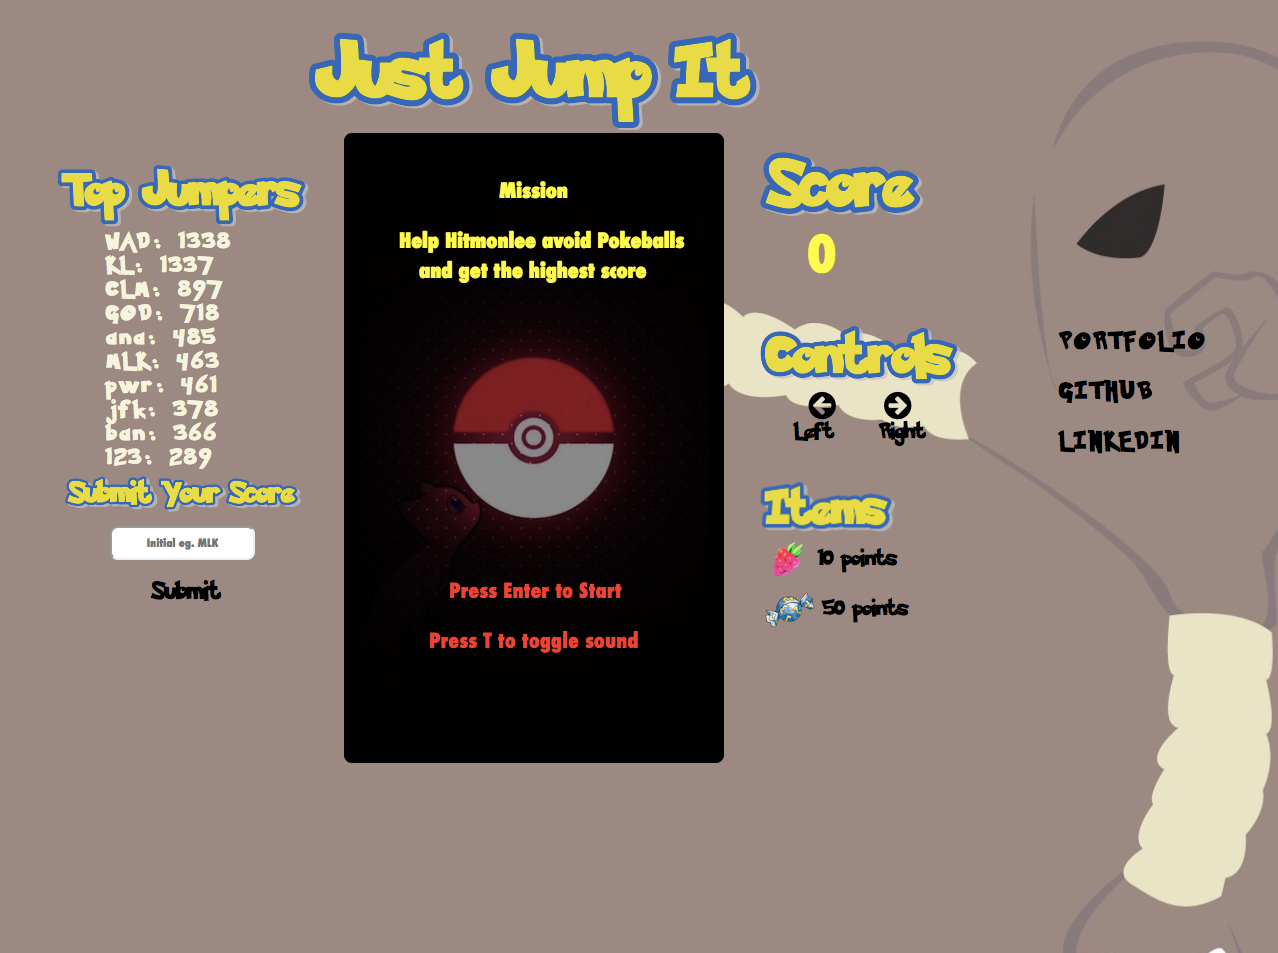
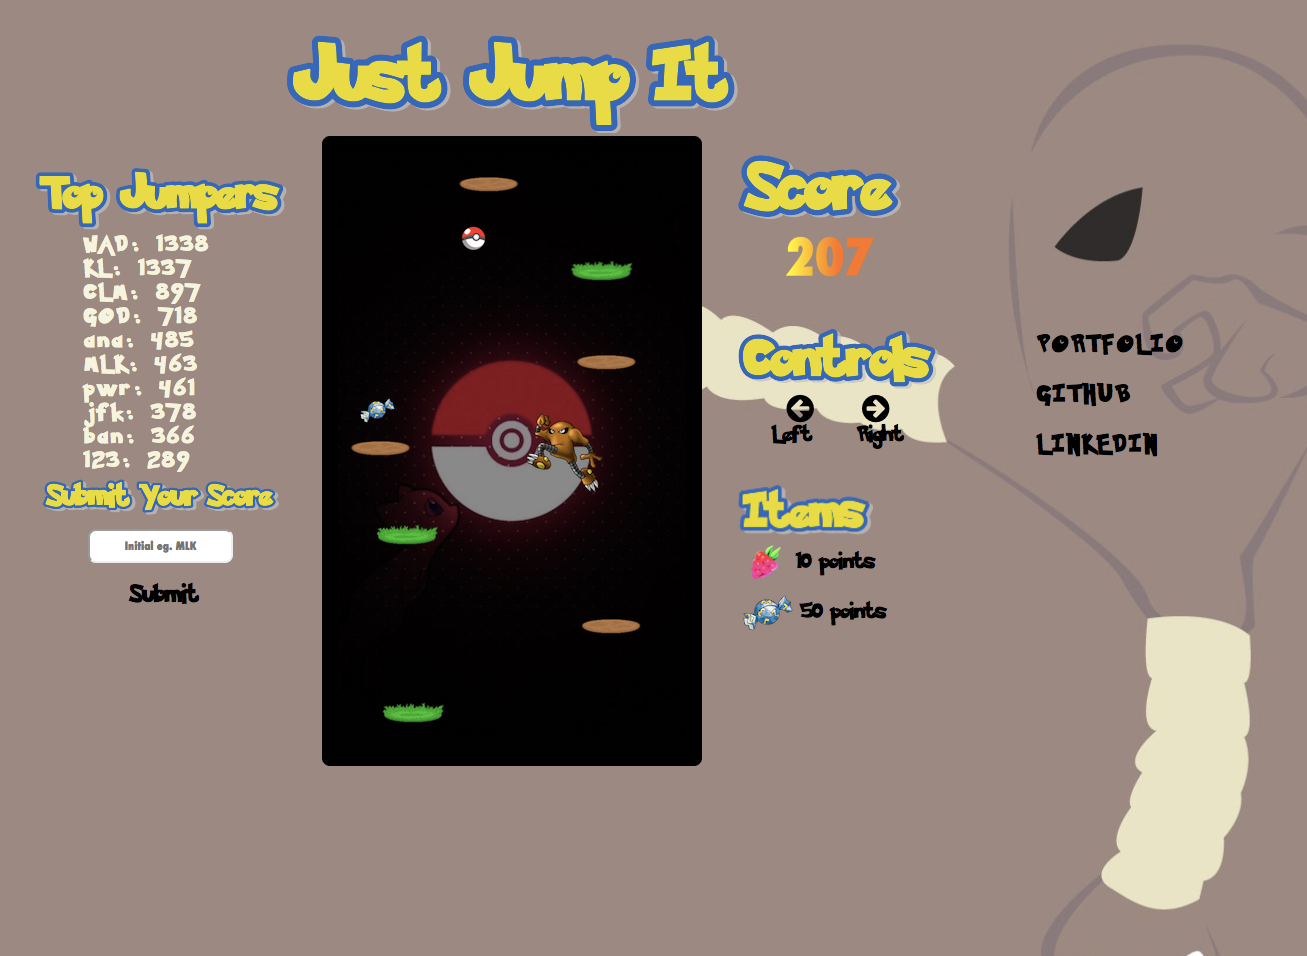
Edit production readme images

diff --git a/README.md b/README.md
@@ -1,7 +1,7 @@
 # Just Jump It
 [Play the game](https://kingsleyliao.github.io/JustJumpIt/)
 
-![gameimage](https://github.com/kingsleyliao/JustJumpIt/blob/master/images/gameplay.png)
+![gameimage](https://github.com/kingsleyliao/JustJumpIt/blob/master/images/startscreen.png)
 
 ## Background
 Just Jump It is a game inspired by the popular game Doodle Jump [doodle jump](http://doodlejump.org/). It is built with vanilla JavaScript, HTML5 Canvas, and Firebase for high score information.
@@ -15,4 +15,4 @@ JustJumpIt is an addictive platformer where the player tries get the highest sco
 - Collect items to further increase your score
 - Try to avoid flying Pokeballs
 
-![gameimage](https://github.com/kingsleyliao/JustJumpIt/blob/master/images/gameplay2.png)
+![gameimage](https://github.com/kingsleyliao/JustJumpIt/blob/master/images/gameplay.png)
